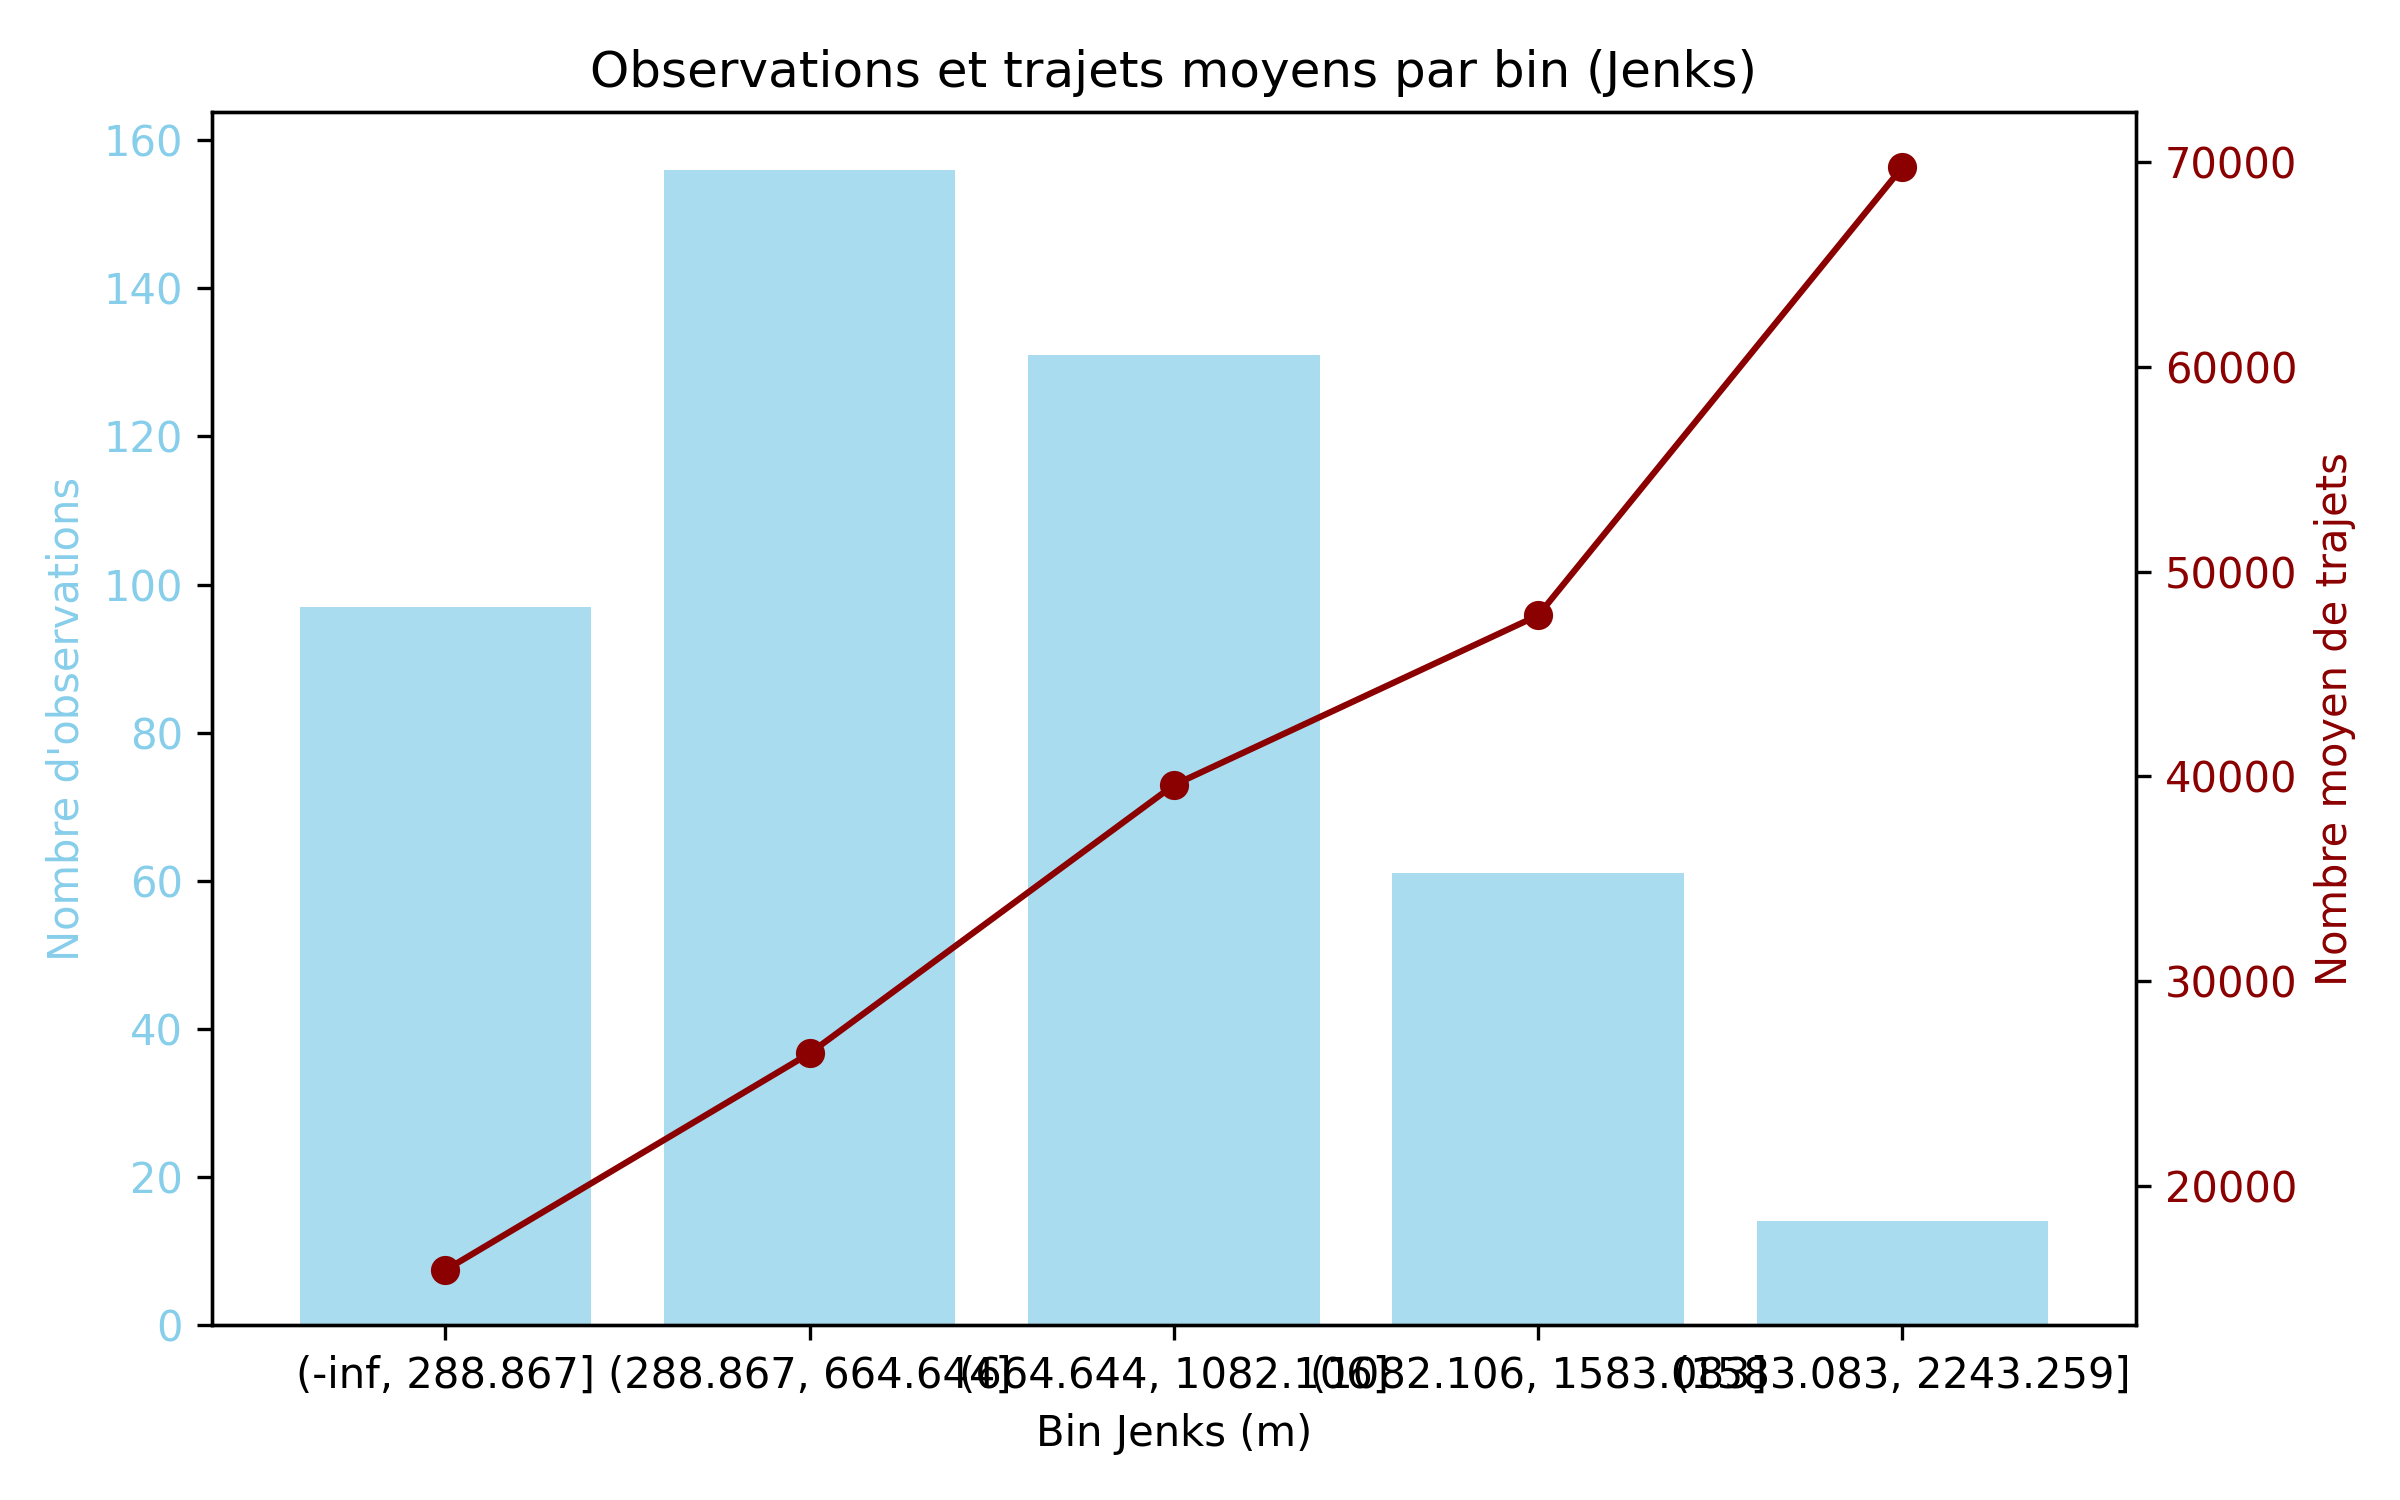
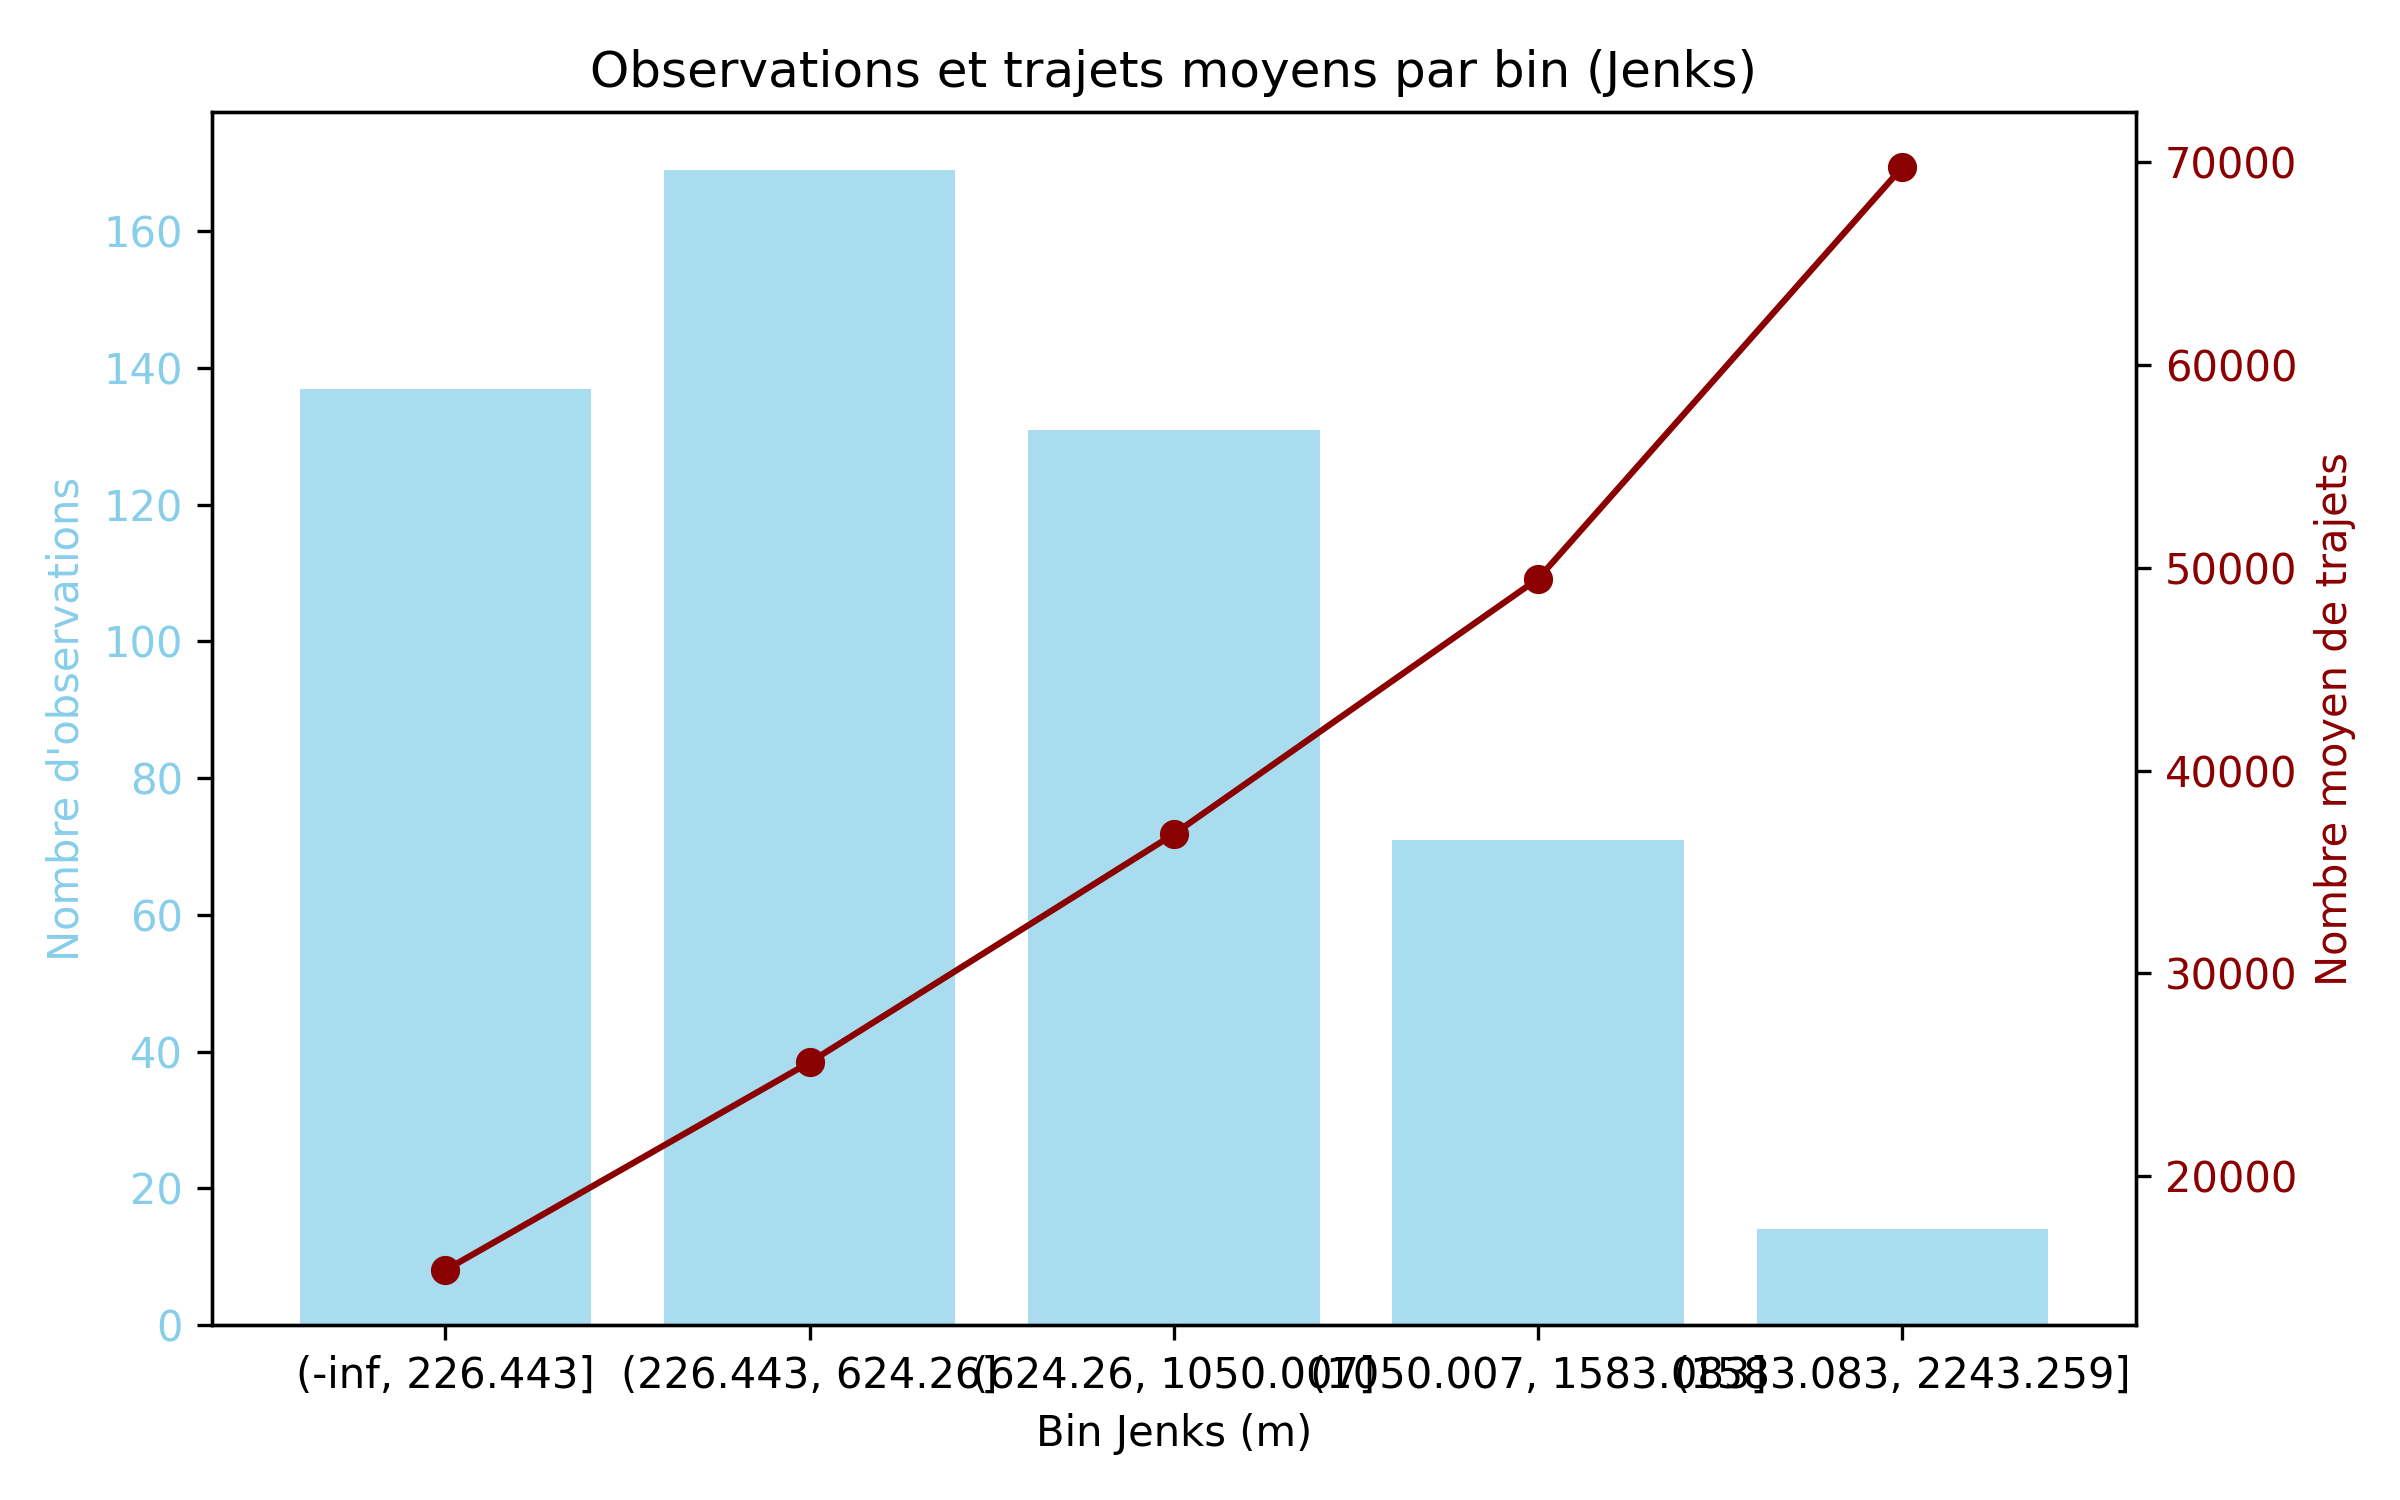
fix bikepath data imputation

diff --git a/scripts/visuals/generate_visuals.py b/scripts/visuals/generate_visuals.py
@@ -161,7 +161,7 @@ def analyser_zonage(hexagones, output_path ):
 
 def main():
     # Chargement des données
-    season = "hiver_2425"
+    season = "ete_2024"
     if season == "ete_2024":
         hexagones = gpd.read_file("../../data/processed/ete_2024/hexagones250m_ete_2024_popdens_bikepath_parcs_universites_zonage_logement_cegep.shp")
     elif season == "hiver_2324":
@@ -169,8 +169,8 @@ def main():
     elif season == "hiver_2425":
         hexagones = gpd.read_file("../../data/processed/hiver2425/hexagones250m_hiver_2024_2025_popdens_bikepath_parcs_universites_zonage_logement_cegep.shp")
     print(hexagones.columns)
-    import numpy as np
-    hexagones["transitsco"] = hexagones["transitsco"].replace(-1, np.nan)
+
+    hexagones["tran_sc_mo"] = hexagones["tran_sc_mo"].replace(-1, np.nan)
     season = season + "/250m"
     # Lancer l'analyse sur différentes variables
     analyser_relation(hexagones, "aire_parc", "nb_trajets", f"{season}/parc_vs_trajets",
@@ -179,13 +179,13 @@ def main():
     analyser_relation(hexagones, "nombre_uni", "nb_trajets", f"{season}/nb_universite_vs_trajets",
                       correlation_csv=f"../../output/{season}/correlations.csv")
 
-    analyser_relation(hexagones, "walkscore_", "nb_trajets", f"{season}/walkscore_vs_trajets",
+    analyser_relation(hexagones, "walk_sc_mo", "nb_trajets", f"{season}/walkscore_vs_trajets",
                       correlation_csv=f"../../output/{season}/correlations.csv")
 
-    analyser_relation(hexagones, "transitsco", "nb_trajets", f"{season}/transitscore_vs_trajets",
+    analyser_relation(hexagones, "tran_sc_mo", "nb_trajets", f"{season}/transitscore_vs_trajets",
                       correlation_csv=f"../../output/{season}/correlations.csv")
 
-    analyser_relation(hexagones, "bikescore_", "nb_trajets", f"{season}/bikescore_vs_trajets",
+    analyser_relation(hexagones, "bike_sc_mo", "nb_trajets", f"{season}/bikescore_vs_trajets",
                       correlation_csv=f"../../output/{season}/correlations.csv")
 
     analyser_relation(hexagones, "l_m", "nb_trajets", f"{season}/longueur_piste_cyclable_vs_trajets",
@@ -215,8 +215,8 @@ def main():
     analyser_zonage(hexagones, output_path=f"../../output/{season}/zonage.png")
 
     colonnes_facteurs = [
-        "aire_parc", "nombre_uni", "walkscore_", "transitsco",
-        "bikescore_", "l_m", "l4s_m", "p4s_m", "np4s_m", "densite_es", "distance_c", "densite_lo", "nb_cegep"
+        "aire_parc", "nombre_uni", "walk_sc_mo", "tran_sc_mo", "bike_sc_mo", "l_m", "l4s_m", "p4s_m", "np4s_m",
+        "densite_es", "distance_c", "densite_lo", "nb_cegep"
     ]
 
     generer_matrice_correlation(hexagones, colonnes_facteurs,

diff --git a/scripts/data/walkscore_processing.py b/scripts/data/walkscore_processing.py
@@ -134,12 +134,17 @@ def agg_walkscore_par_hexagone(
     moyenne_bs = jointure.groupby("index_right")["bikescore"].mean()
     moyenne_distance = jointure.groupby("index_right")["distance_to_downtown"].mean()
 
-    gdf_hex["walkscore_moyen"] = gdf_hex.index.map(moyenne_ws)
-    gdf_hex["transitscore_moyen"] = gdf_hex.index.map(moyenne_ts)
-    gdf_hex["bikescore_moyen"] = gdf_hex.index.map(moyenne_bs)
+    gdf_hex["walk_sc_mo"] = gdf_hex.index.map(moyenne_ws)
+    gdf_hex["tran_sc_mo"] = gdf_hex.index.map(moyenne_ts)
+    gdf_hex["bike_sc_mo"] = gdf_hex.index.map(moyenne_bs)
     gdf_hex["distance_cbd"] = gdf_hex.index.map(moyenne_distance)
 
-    print(gdf_hex[["walkscore_moyen", "transitscore_moyen", "bikescore_moyen"]].describe())
+    print('heheheheh'
+          'wewe'
+          'wewee'
+          'we')
+
+    #print(gdf_hex[["walkscore_moyen", "transitscore_moyen", "bikescore_moyen"]].describe())
 
     gdf_hex.to_file(output_path)
     print(f"✅ Export effectué : {output_path}")

diff --git a/scripts/data/generate_bikepath_data.py b/scripts/data/generate_bikepath_data.py
@@ -28,7 +28,7 @@ def ajouter_longueur_pistes_cyclables_par_hexagone(
         grouped[col.replace("_m", "_km")] = grouped[col] / 1000
 
     hexagones = hexagones.merge(grouped, on="hex_index", how="left")
-    for col in ["l_km", "l4s_km", "p4s_km", "np4s_km"]:
+    for col in ["l_km", "l4s_km", "p4s_km", "np4s_km", "l_m", "l4s_m", "p4s_m", "np4s_m"]:
         hexagones[col] = hexagones[col].fillna(0)
 
     hexagones.to_file(output_path)

diff --git a/scripts/data/data_pipeline.py b/scripts/data/data_pipeline.py
@@ -14,7 +14,7 @@ from clip_montreal import clip_mtl
 from create_index import create_index
 import yaml
 
-def load_config(path="config_ete_2024.yml"):
+def load_config(path="config_hiver_2023_2024.yml"):
     with open(path, "r") as f:
         return yaml.safe_load(f)
 
